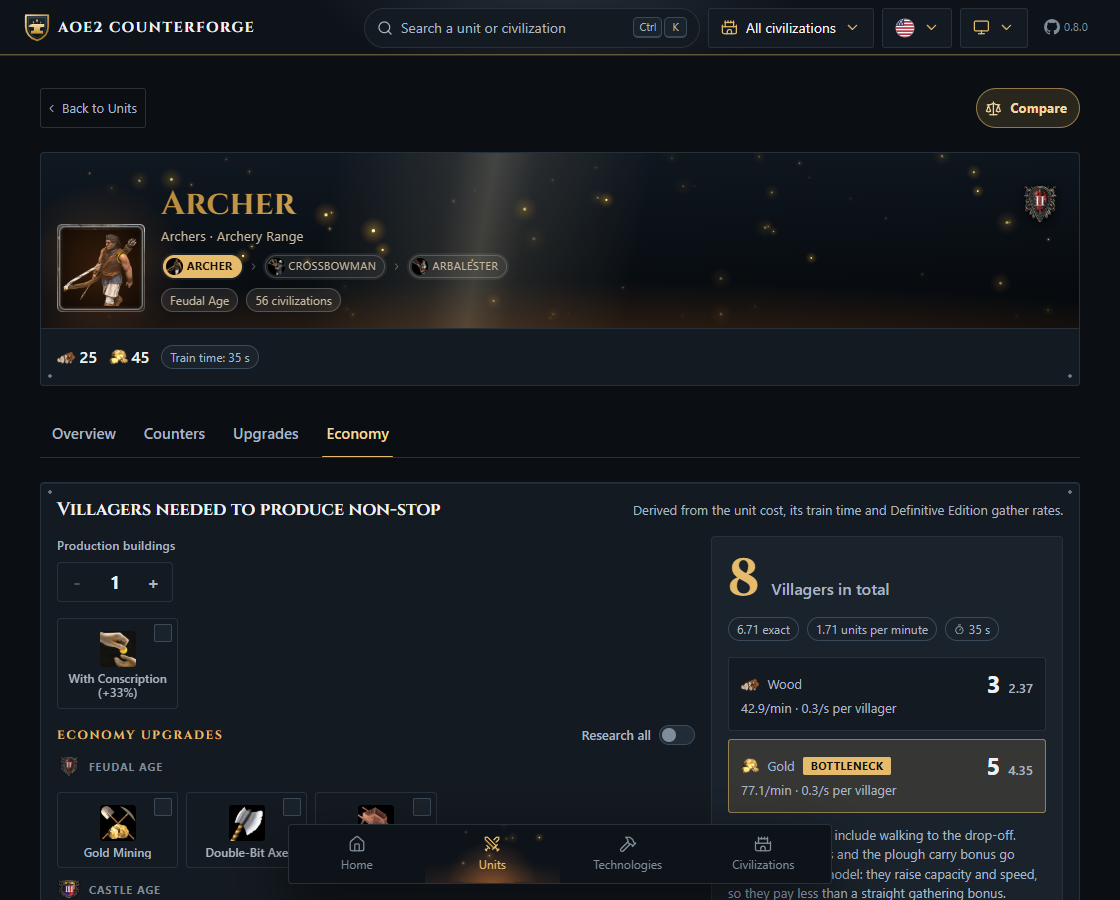
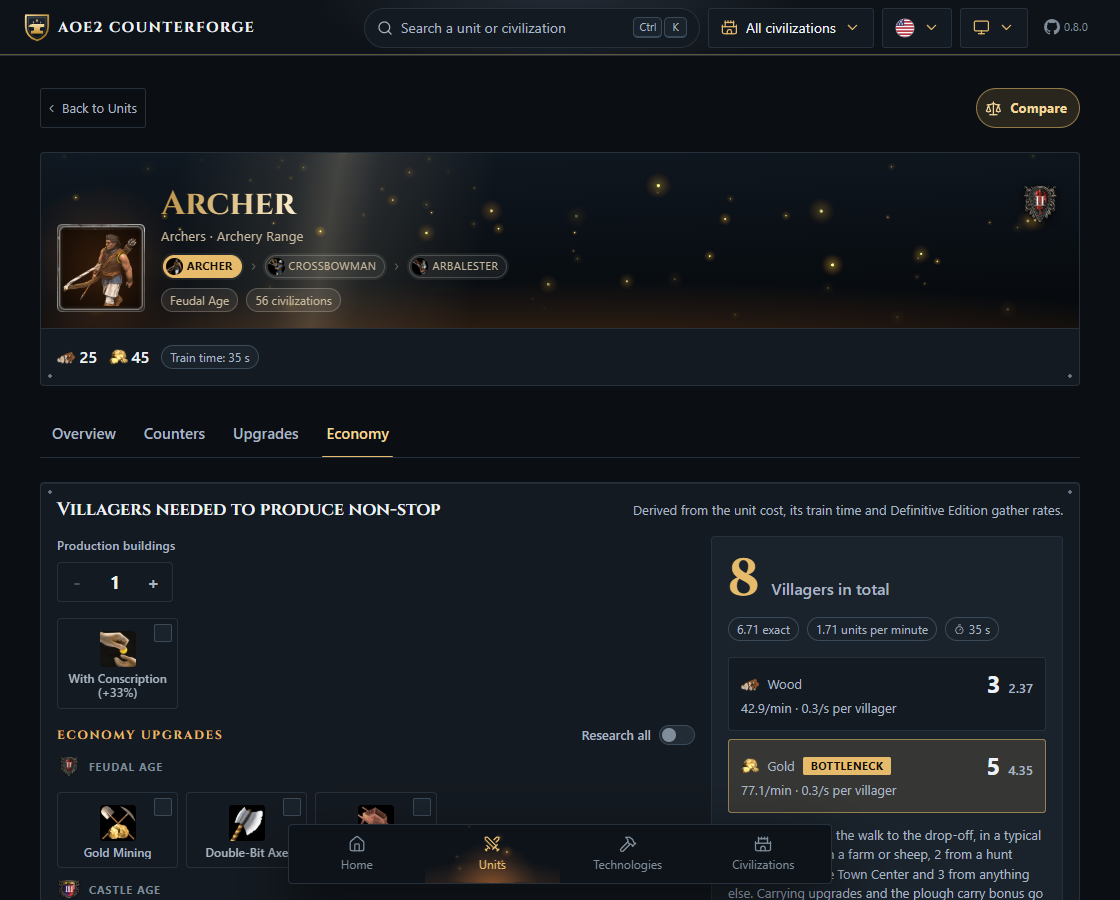
fix: state the drop-off walk in the economy note instead of claiming rates include it

diff --git a/src/react/components/unit-economy-panel.tsx b/src/react/components/unit-economy-panel.tsx
@@ -69,7 +69,7 @@ function techGroupsFor(
  */
 export function UnitEconomyPanel({ unit }: UnitEconomyPanelProps) {
     const { t } = useTranslation();
-    const { upgrades, catalog } = useServices();
+    const { upgrades, catalog, economy } = useServices();
     const text = useGameText();
     const [buildings, setBuildings] = useState(1);
     const [foodSource, setFoodSource] = useState<FoodSource>('farm');
@@ -211,7 +211,13 @@ export function UnitEconomyPanel({ unit }: UnitEconomyPanelProps) {
                             })}
                         </p>
                     ) : null}
-                    <p className="card__hint planner__note">{t('economy.note')}</p>
+                    <p className="card__hint planner__note">
+                        {t('economy.note', {
+                            nearby: economy.dropOffDistance({ resource: 'food', foodSource: 'farm' }),
+                            hunt: economy.dropOffDistance({ resource: 'food', foodSource: 'hunt' }),
+                            ordinary: economy.dropOffDistance({ resource: 'wood' }),
+                        })}
+                    </p>
                 </div>
 
                 <div className="planner__plan">

diff --git a/tests/unit/services/economy/economy-service.test.ts b/tests/unit/services/economy/economy-service.test.ts
@@ -78,6 +78,26 @@ describe('EconomyService gather rates', () => {
     });
 });
 
+describe('EconomyService drop-off distance', () => {
+    it('reports the walk the trip is worked out with', () => {
+        const distance = economy.dropOffDistance({ resource: 'wood' });
+
+        expect(distance).toBe(stated.wood.dropOffDistance);
+    });
+
+    it('reads the food walk from the chosen source', () => {
+        const distance = economy.dropOffDistance({ resource: 'food', foodSource: 'hunt' });
+
+        expect(distance).toBe(stated.food.hunt.dropOffDistance);
+    });
+
+    it('assumes a farm when no food source is named', () => {
+        const distance = economy.dropOffDistance({ resource: 'food' });
+
+        expect(distance).toBe(stated.food.farm.dropOffDistance);
+    });
+});
+
 describe('EconomyService production plan', () => {
     it('divides the resource drain by the gather rate to size the villager count', () => {
         const unit = makeUnit({ cost: { wood: 25, gold: 45 }, trainTime: 35 });

diff --git a/src/services/economy/economy-service.ts b/src/services/economy/economy-service.ts
@@ -117,6 +117,16 @@ export class EconomyService {
     }
 
     /**
+     * Tiles a villager walks from the resource to the drop-off, one way.
+     *
+     * @param query - Resource to gather and, for food, which source to assume.
+     * @returns The distance the trip is worked out with.
+     */
+    public dropOffDistance(query: Omit<GatherRateQuery, 'techs'>): number {
+        return this.profileOf(query.resource, query.foodSource ?? 'farm').dropOffDistance;
+    }
+
+    /**
      * Villagers needed per resource to keep a set of production buildings busy forever.
      *
      * @param query - Unit to train, how many buildings run in parallel and the economy assumptions.
